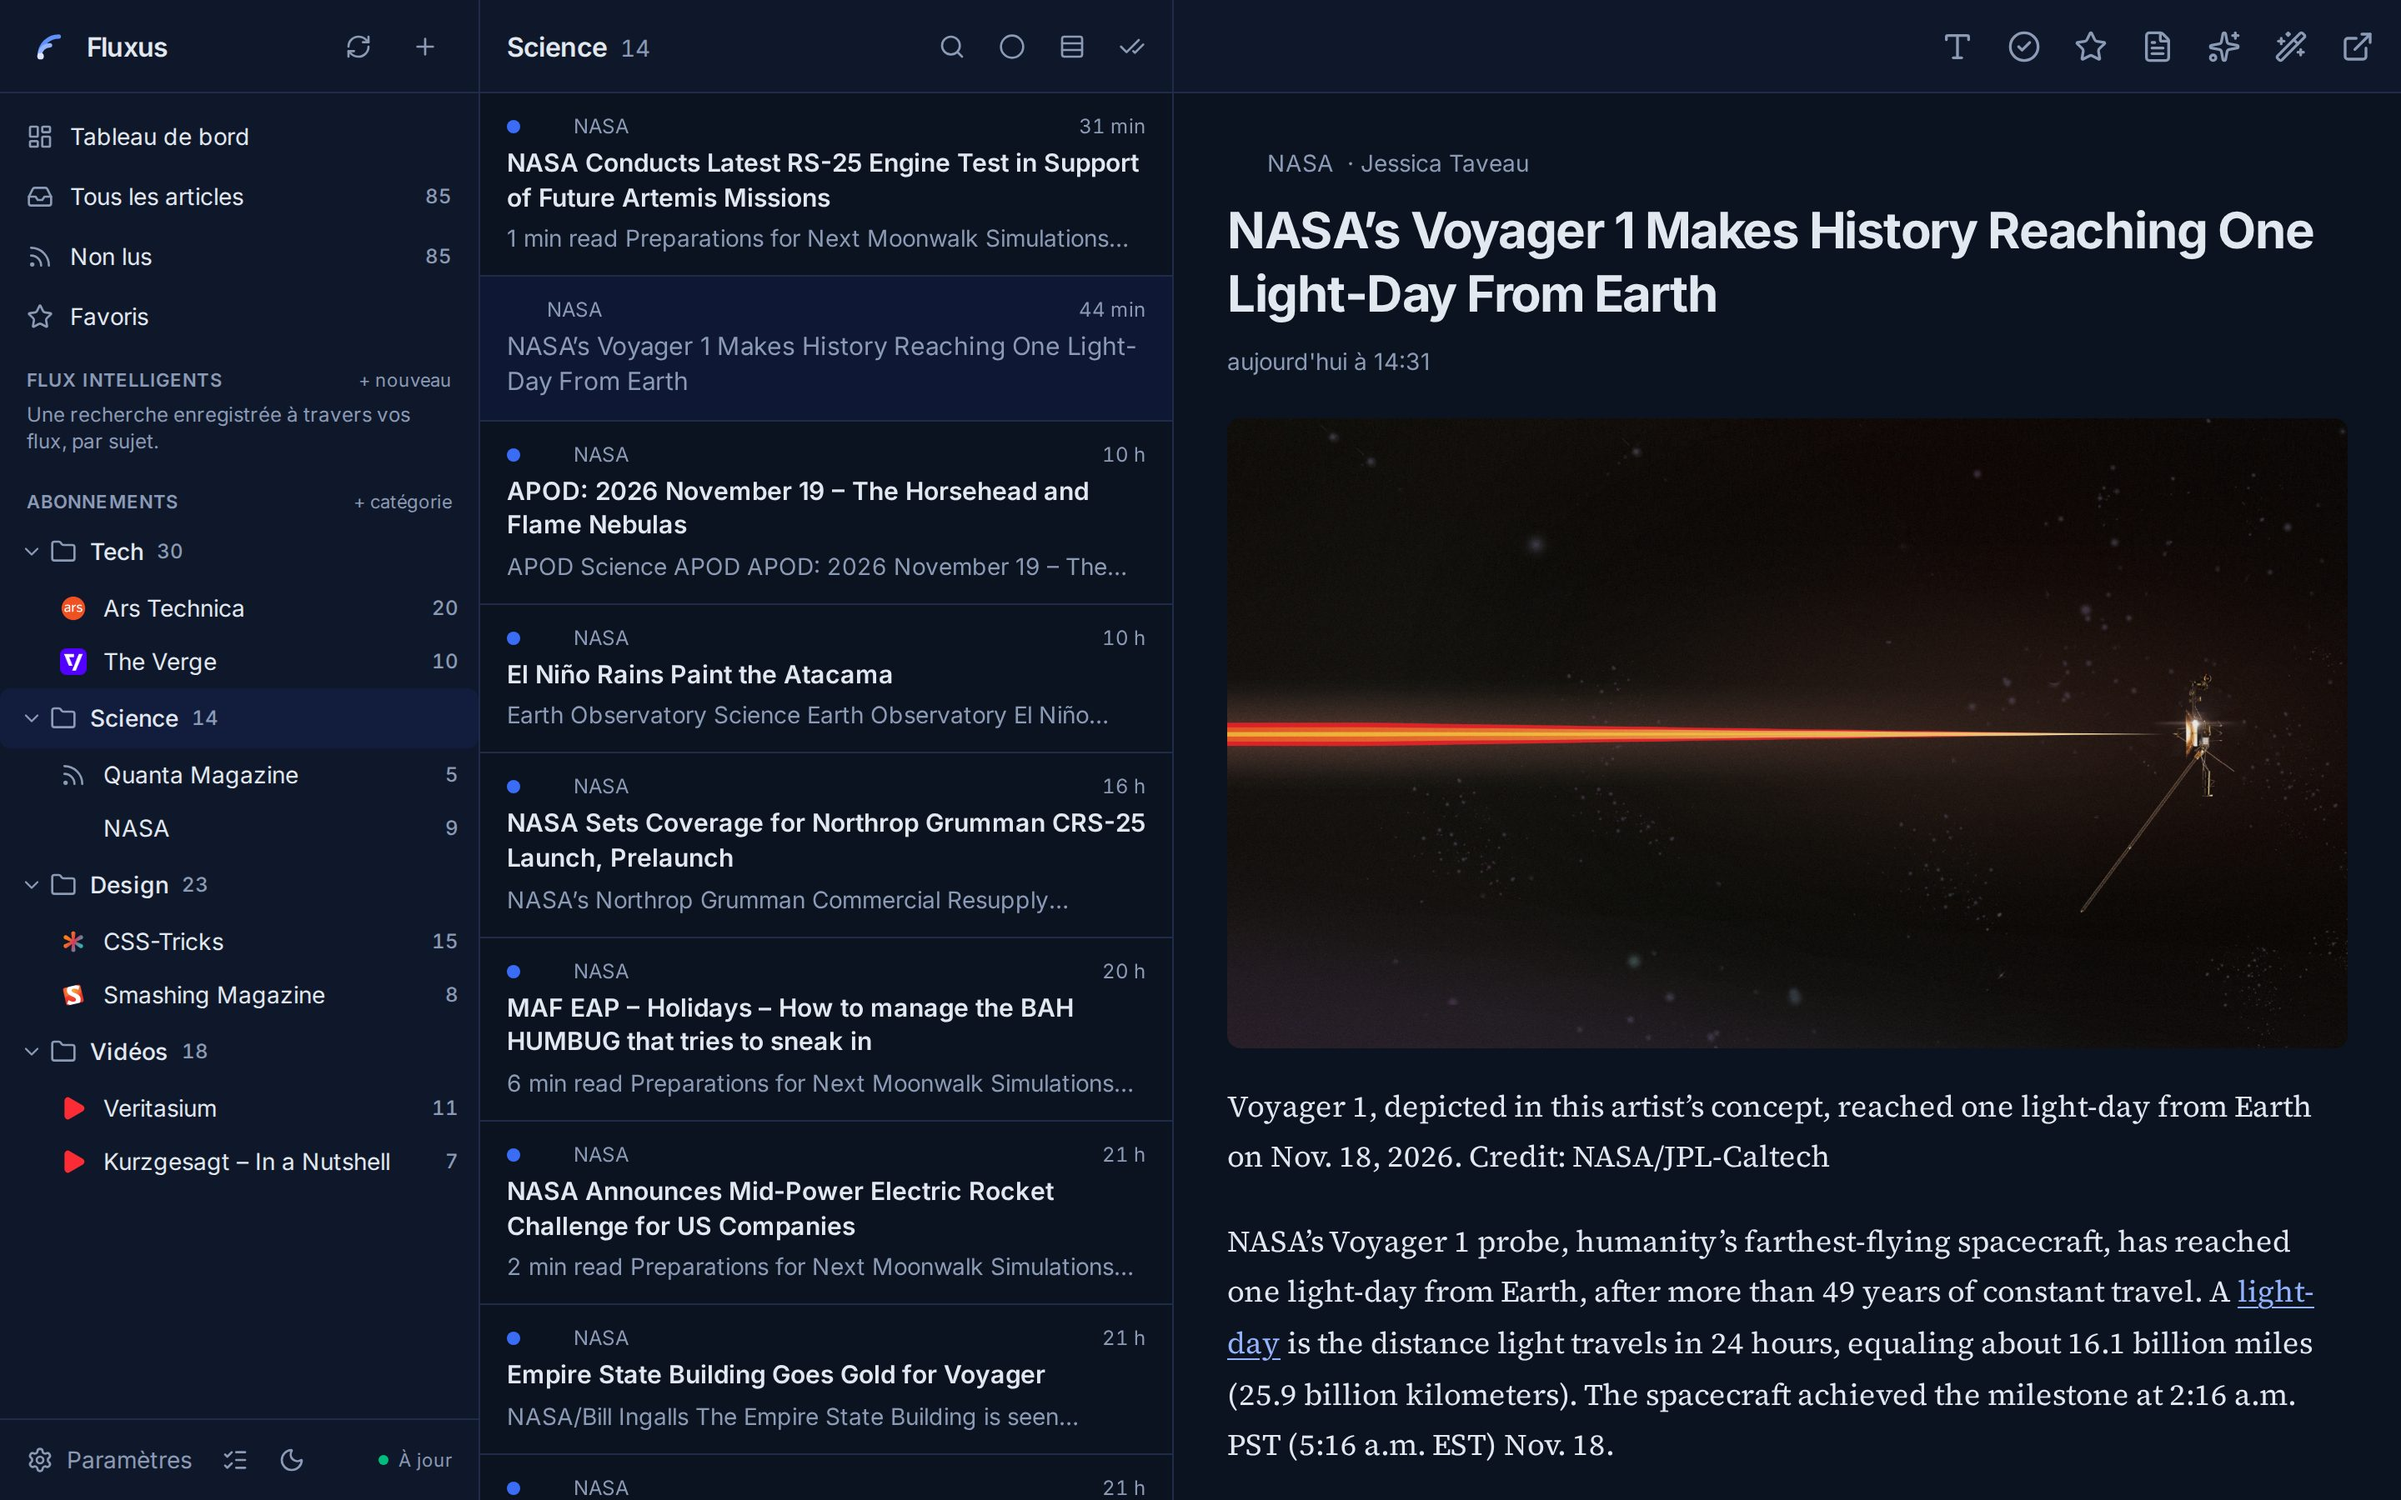
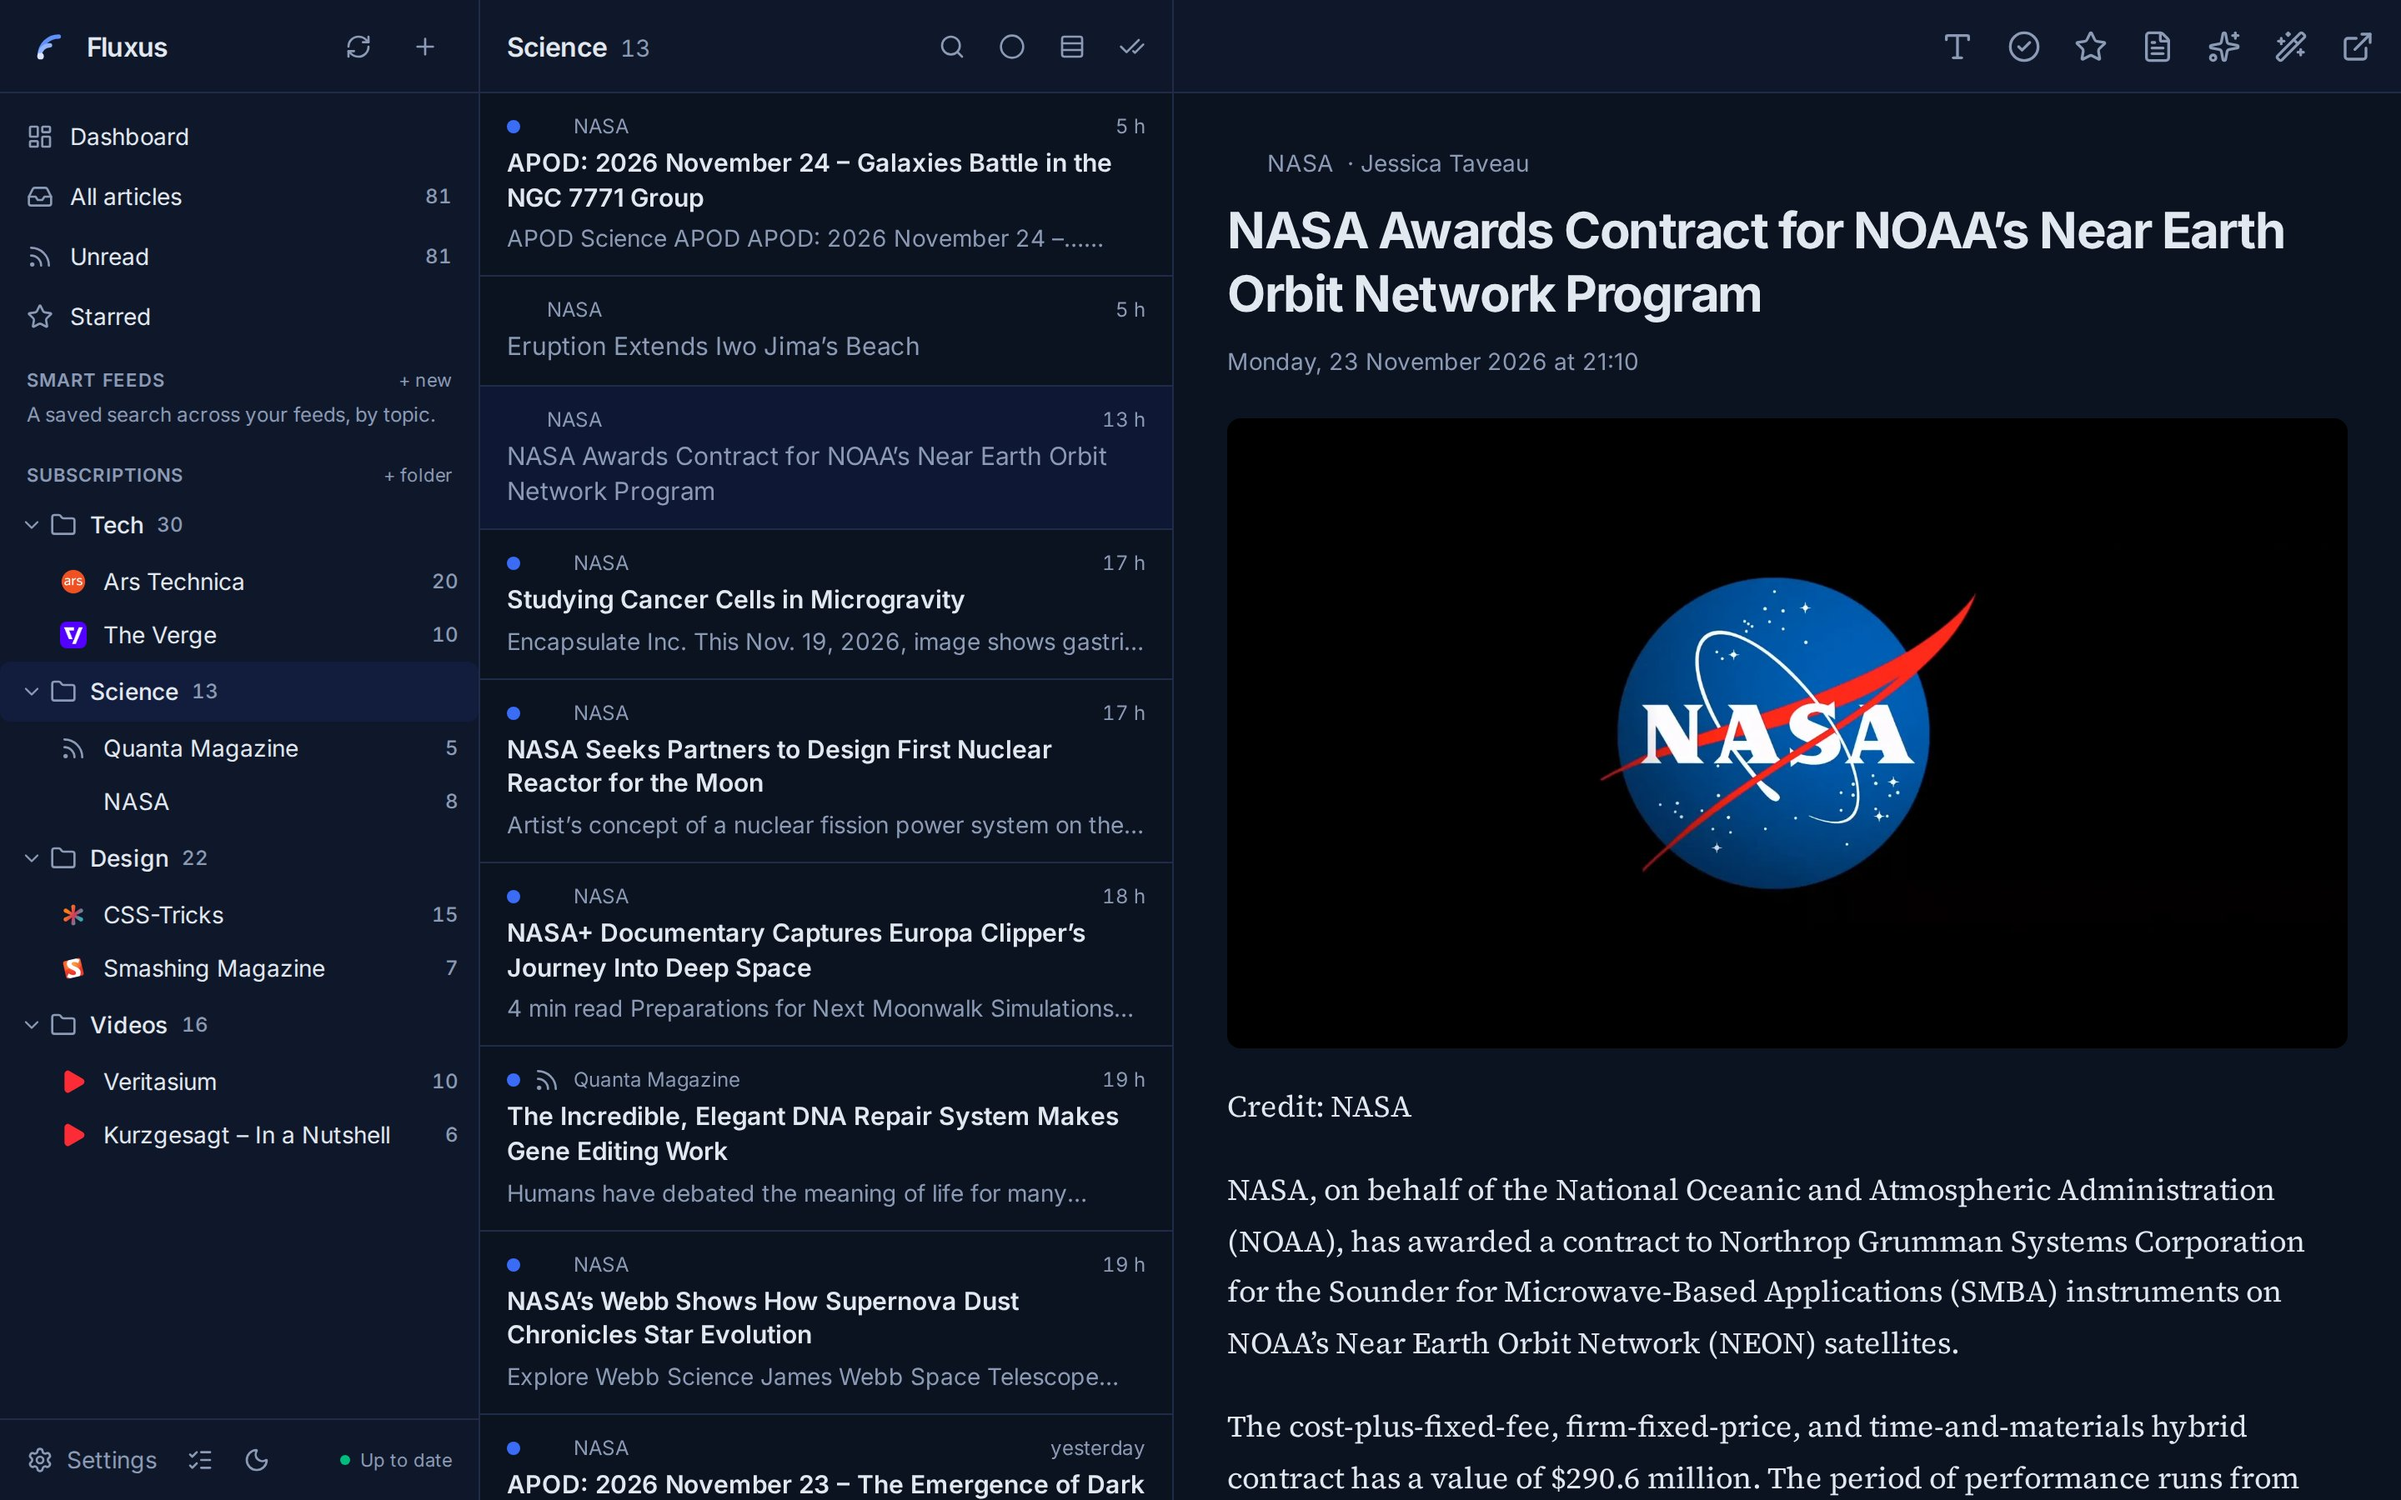
Refresh README screenshots in English with the dark theme
Captured by the new scripts/readme-screenshots.py on a disposable demo
instance with English-language feeds.

diff --git a/scripts/readme-screenshots.py b/scripts/readme-screenshots.py
@@ -1,0 +1,67 @@
+"""Captures du README (`docs/screenshots/`), en anglais et en thème sombre (Playwright, image fluxus-browser).
+
+À lancer sur une instance de démonstration jetable, jamais sur des données personnelles : base vide,
+dossiers Tech, Science, Design, Videos et flux anglophones (voir docs/DEVELOPMENT.md).
+
+docker run --rm --network host -u 0 -e E2E_BASE=http://localhost:8001 -v $PWD/scripts:/scripts:ro \\
+  -v $PWD/docs/screenshots:/out fluxus-browser python /scripts/readme-screenshots.py
+
+2880×1800 (1440×900 en densité 2), JPEG.
+"""
+
+from e2e_common import BASE, OUT, api, main, wait_synced, wait_until
+
+results: dict = {}
+
+# Images visibles seulement : celles d'un carrousel hors cadre restent en chargement différé.
+IMAGES_LOADED = """() => [...document.images].filter((i) => {
+  const r = i.getBoundingClientRect()
+  return r.width > 0 && r.top < innerHeight && r.bottom > 0 && r.left < innerWidth && r.right > 0
+}).every((i) => i.complete)"""
+
+
+def capture(page, name: str) -> None:
+    page.wait_for_function(IMAGES_LOADED, timeout=30000)
+    page.mouse.move(0, 899)  # pas de survol parasite
+    page.screenshot(path=f"{OUT}/{name}.jpg", type="jpeg", quality=85)
+    results[name] = True
+
+
+def run(page, ctx, errors):
+    wait_synced(page)
+    page.evaluate("localStorage.setItem('fluxus.theme', 'dark')")
+    page.reload(wait_until="load")
+    page.wait_for_selector("[data-widget]", timeout=30000)
+    assert page.evaluate("document.documentElement.lang") == "en"
+    assert page.evaluate("document.documentElement.classList.contains('dark')")
+    capture(page, "dashboard")
+
+    science = next(c for c in api(page, "GET", "/api/categories").json() if c["title"] == "Science")
+    page.goto(f"{BASE}/category/{science['id']}", wait_until="load")
+    page.wait_for_selector("[data-entry-id]", timeout=30000)
+    # Premier article (hors tête de liste, pour montrer la sélection) dont l'image s'affiche en haut du
+    # lecteur : un article qui commence par un menu ou un long texte se prête mal à la vitrine.
+    for i in range(1, 12):
+        page.locator("[data-entry-id]").nth(i).click()
+        wait_until(lambda: "entry=" in page.url, "ouverture d'un article")
+        page.wait_for_selector("article .prose-reader", timeout=30000)
+        page.wait_for_timeout(300)
+        top = page.evaluate("() => { const img = document.querySelector('article .prose-reader img'); return img ? img.getBoundingClientRect().top : 9999 }")
+        if top < 450:
+            results["reader_entry"] = i
+            break
+    else:
+        raise AssertionError("aucun article illustré en tête dans ce dossier")
+    capture(page, "reader")
+    assert not errors, errors[:5]
+
+
+main(
+    run,
+    results,
+    failure_shot="readme-failure",
+    locale="en-US",
+    color_scheme="dark",
+    viewport={"width": 1440, "height": 900},
+    device_scale_factor=2,
+)

diff --git a/README.md b/README.md
@@ -11,7 +11,7 @@ source readers don't offer in one place:
 - **Offline-first** web app (installable PWA) and **Android app**, with read / starred sync.
 - Folders, drag-and-drop ordering, feed discovery from a site URL, OPML import / export, full-text search, keyboard shortcuts.
 
-![Dashboard](docs/screenshots/dashboard.jpg)
+![Dashboard, dark theme](docs/screenshots/dashboard.jpg)
 
 The interface is available in French and English. Four Docker containers, PostgreSQL as the only dependency, no external queue.
 
@@ -29,7 +29,7 @@ docker compose -f docker-compose.deploy.yml up -d
 
 Images (`fluxus`, `fluxus-browser`, `fluxus-backup`) are published on `ghcr.io/taclab` for every
 release. The app listens on `http://127.0.0.1:8000`; point your reverse proxy at it, open it, and
-create your password. Then add feeds with **+** and set an LLM API key in *Paramètres → Résumés*.
+create your password. Then add feeds with **+** and set an LLM API key in *Settings → Summaries*.
 
 The Android APK is attached to each [GitHub release](../../releases).
 

diff --git a/docs/DEVELOPMENT.md b/docs/DEVELOPMENT.md
@@ -51,8 +51,14 @@ docker run --rm --network host -u 0 -v $PWD/scripts:/scripts:ro -v /tmp/shots:/o
   fluxus-browser python /scripts/e2e-ui.py
 ```
 
-One script per area: `scripts/e2e-*.py` (ui, dashboard, smartfeeds, layout, sidebar, subscriptions, reading, pwa, backup).
+One script per area: `scripts/e2e-*.py` (ui, dashboard, smartfeeds, layout, sidebar, subscriptions, reading, pwa, backup, i18n).
 Set `E2E_BASE` to target another instance (for example a disposable copy on :8001).
+
+The README screenshots come from `scripts/readme-screenshots.py` (English, dark theme, 2880×1800).
+Run it against a disposable demo instance with English-language feeds, never on personal data:
+an empty database, folders Tech, Science, Design and Videos, a few feeds in each, and the worker
+stopped once they are fetched so the content stays still. Write to a temporary directory
+(`-v /tmp/shots:/out`), then copy `dashboard.jpg` and `reader.jpg` into `docs/screenshots/`.
 
 ## CI and releases
 
